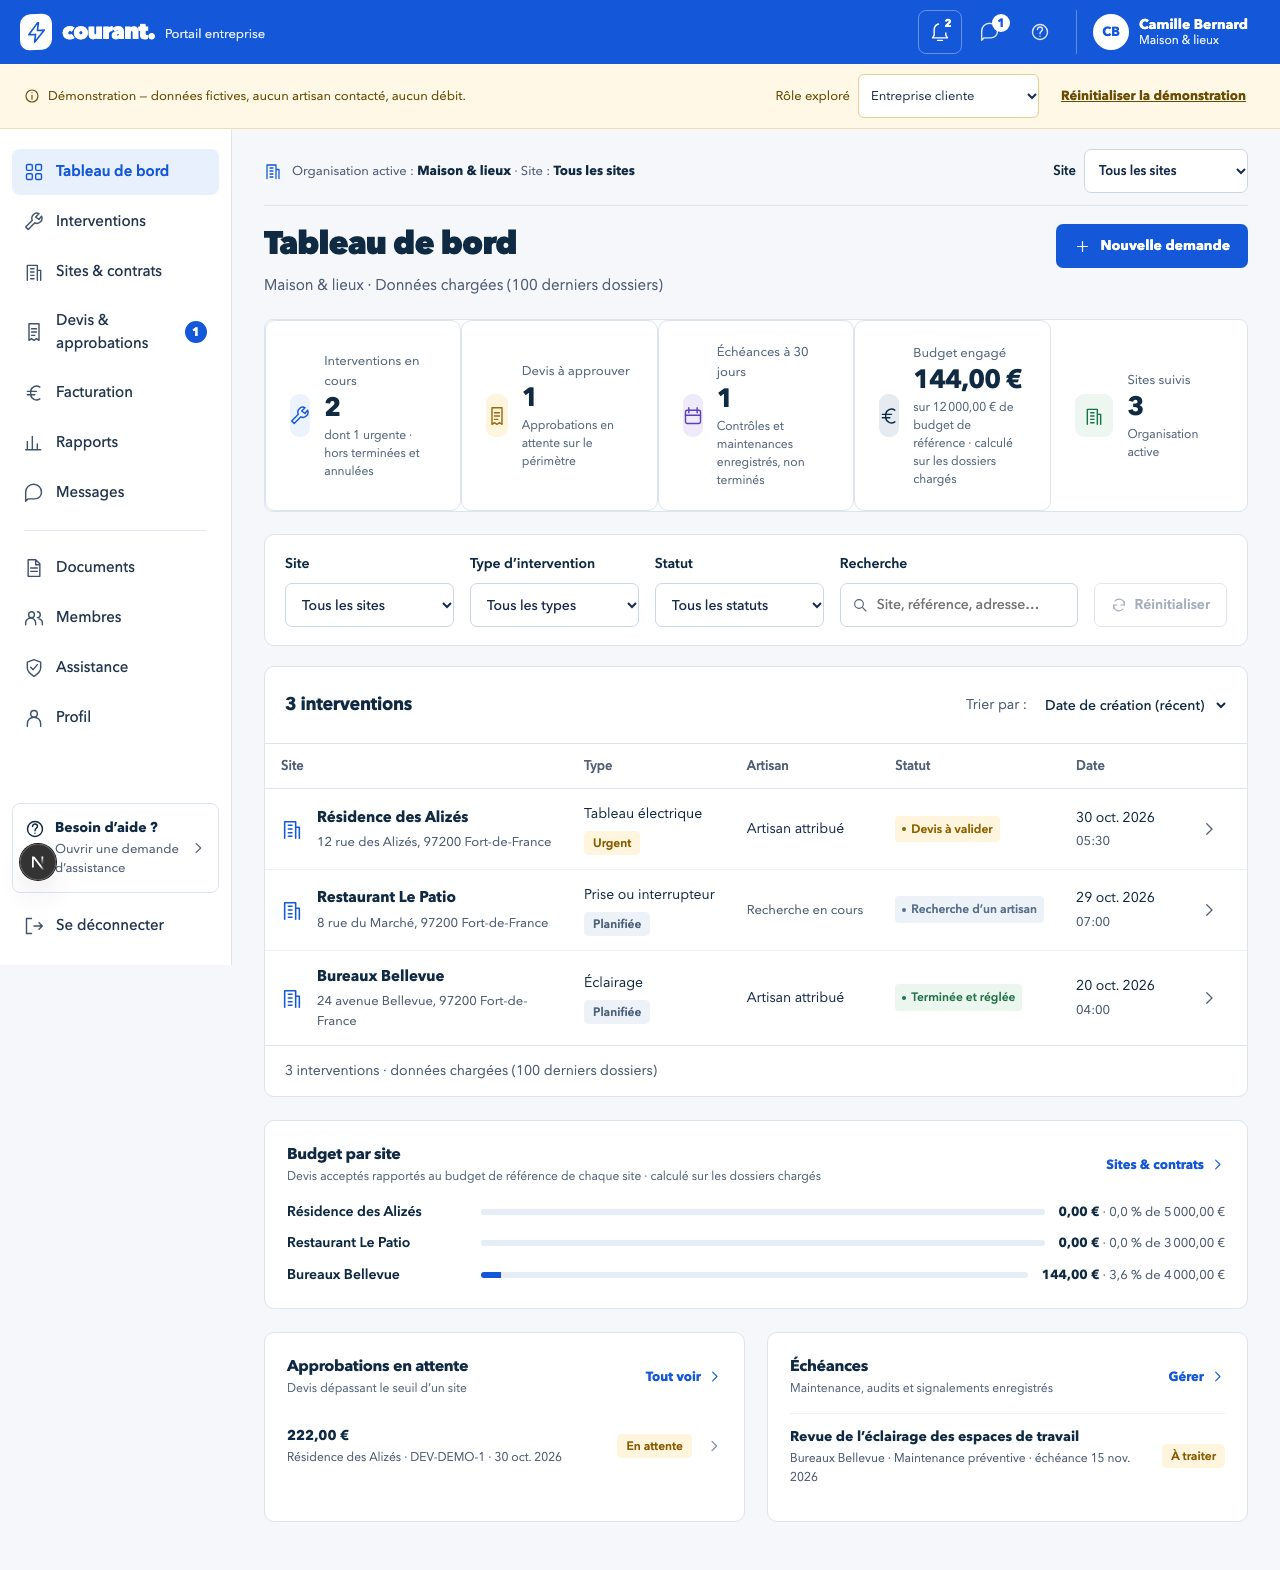
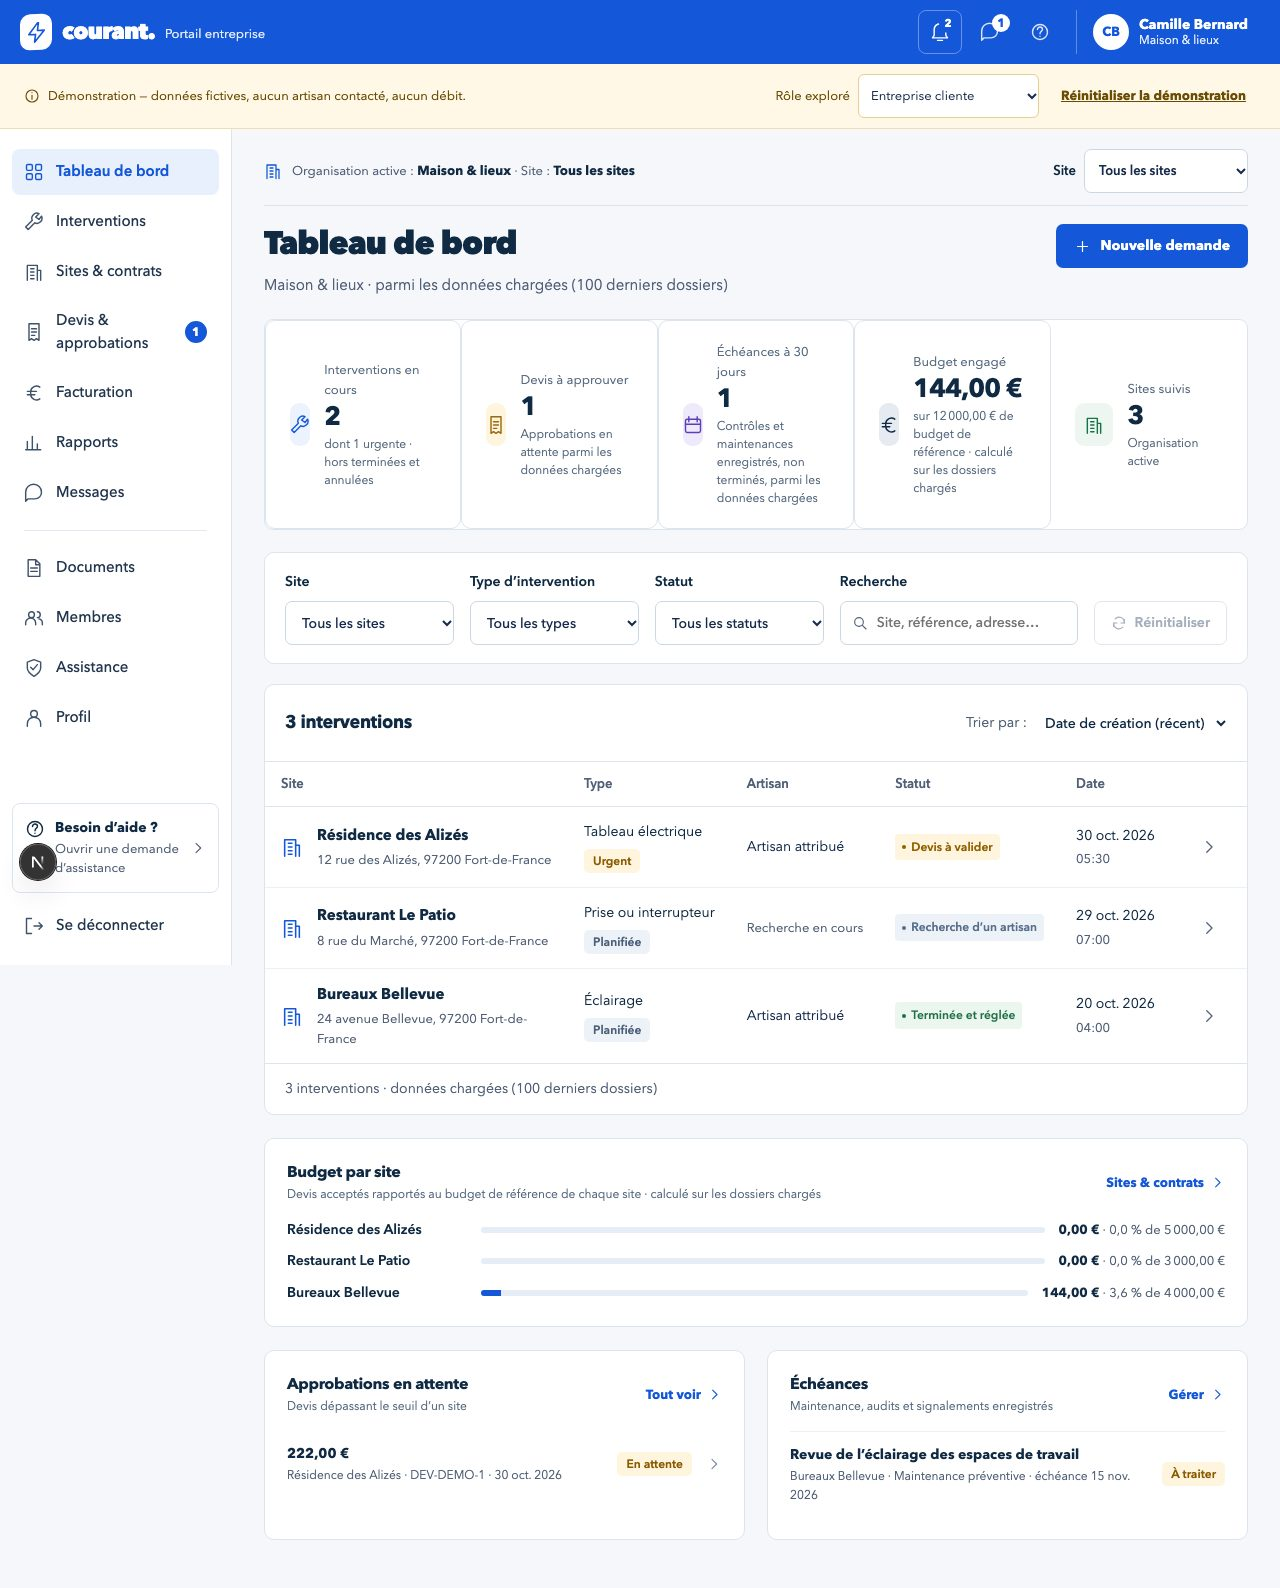
fix(enterprise): professional-dependent dashboard figures are state-aware — never 0 while unverified, honest subtitle (ENTERPRISE-FIGURES-001)

diff --git a/components/role/enterprise-space.tsx b/components/role/enterprise-space.tsx
@@ -70,7 +70,9 @@ import {
 import type { Session } from "../app/session-types";
 import { UploadQueuePanel } from "../app/upload-queue";
 import {
-  overviewFigures,
+  FIGURE_PLACEHOLDER,
+  dashboardFigures,
+  overviewSubtitle,
   siteBudgetBars,
   NO_FILTERS,
   budgetFigures,
@@ -1148,14 +1150,18 @@ function InterventionsTable({
 function OverviewView({ c }: { c: Ctx }) {
   const { scope } = c;
   const list = useInterventionList(c);
-  // V5-C05 : chiffres réels seulement (ouverts, dont urgentes, échéances à 30 jours) ; aucune consommation.
-  const figures = overviewFigures(scope, new Date().toISOString().slice(0, 10), (status) => OPEN_STATUSES.includes(status));
+  // V5-C05 : chiffres réels seulement (ouverts, dont urgentes). Les chiffres qui dépendent des données
+  // professionnelles (échéances, approbations, budget) ne sont affichés que lorsque le contrat est
+  // réellement chargé ; sinon leur état est dit (vérification / non vérifié), jamais un 0.
+  const professionalState = c.session.capabilities.professional;
+  const figures = dashboardFigures(professionalState, scope, new Date().toISOString().slice(0, 10), (status) => OPEN_STATUSES.includes(status));
   const open = figures.open;
-  const siteBars = siteBudgetBars(scope.sites, scope.interventions, scope.quotes);
+  const loaded = figures.professional === "loaded";
+  const placeholder = figures.professional === "loaded" ? "" : FIGURE_PLACEHOLDER[figures.professional];
+  const siteBars = loaded ? siteBudgetBars(scope.sites, scope.interventions, scope.quotes) : [];
   const pending = byDateDesc(
     scope.approvals.filter((a) => a.status === "pending").map((a) => ({ ...a, created_at: a.created_at || "" })),
   );
-  const committed = sum(scope.quotes.filter((q) => q.status === "accepted").map((q) => q.total_cents));
   const budget = sum(scope.sites.map((s) => s.budget_cents || 0));
   const deadlines = [...scope.compliance]
     .filter((r) => r.status !== "completed")
@@ -1165,7 +1171,7 @@ function OverviewView({ c }: { c: Ctx }) {
     <>
       <PageTitle
         title="Tableau de bord"
-        subtitle={`${c.organization?.name || "Organisation"} · ${LOADED_NOTE}`}
+        subtitle={overviewSubtitle(professionalState, c.organization?.name || "Organisation", LOADED_NOTE)}
         action={
           c.canCreateRequest ? (
             <button type="button" className="button primary" onClick={() => c.go("new")}>
@@ -1177,21 +1183,39 @@ function OverviewView({ c }: { c: Ctx }) {
           )
         }
       />
-      <div className={cx("stats-strip", styles.kpis)}>
+      <div className={cx("stats-strip", styles.kpis)} data-professional={figures.professional}>
         <Stat
           icon="wrench"
           label="Interventions en cours"
           value={open}
           note={figures.urgent > 0 ? `dont ${figures.urgent} urgente${figures.urgent > 1 ? "s" : ""} · hors terminées et annulées` : "Demandes ouvertes, hors terminées et annulées"}
         />
-        <Stat icon="receipt" tone="amber" label="Devis à approuver" value={pending.length} note="Approbations en attente sur le périmètre" />
-        <Stat icon="calendar" tone="violet" label="Échéances à 30 jours" value={figures.deadlines30} note="Contrôles et maintenances enregistrés, non terminés" />
+        <Stat
+          icon="receipt"
+          tone="amber"
+          label="Devis à approuver"
+          value={figures.approvalsPending ?? placeholder}
+          note={loaded ? "Approbations en attente parmi les données chargées" : "Données professionnelles non chiffrables"}
+        />
+        <Stat
+          icon="calendar"
+          tone="violet"
+          label="Échéances à 30 jours"
+          value={figures.deadlines30 ?? placeholder}
+          note={loaded ? "Contrôles et maintenances enregistrés, non terminés, parmi les données chargées" : "Données professionnelles non chiffrables"}
+        />
         <Stat
           icon="euro"
           tone="navy"
           label="Budget engagé"
-          value={money(committed)}
-          note={budget > 0 ? `sur ${money(budget)} de budget de référence · ${BASIS}` : `Aucun budget de référence · ${BASIS}`}
+          value={figures.committedCents === null ? placeholder : money(figures.committedCents)}
+          note={
+            !loaded
+              ? "Données professionnelles non chiffrables"
+              : budget > 0
+                ? `sur ${money(budget)} de budget de référence · ${BASIS}`
+                : `Aucun budget de référence · ${BASIS}`
+          }
         />
         <Stat icon="building" tone="green" label="Sites suivis" value={scope.sites.length} note={c.activeSite ? "Site filtré" : "Organisation active"} />
       </div>

diff --git a/tests/ui/enterprise-lists.test.ts b/tests/ui/enterprise-lists.test.ts
@@ -250,3 +250,40 @@ test("budget par site : engagé = devis acceptés du site, taux réel ou null sa
   assert.deepEqual(bars[0], { id: "s1", name: "Siège", committed: 150000, budget: 100000, ratio: 150, width: 100, over: true }, "taux réel non plafonné, barre plafonnée");
   assert.deepEqual(bars[1], { id: "s2", name: "Annexe", committed: 5000, budget: 0, ratio: null, width: 0, over: false }, "sans budget : aucun taux déduit");
 });
+
+import { FIGURE_PLACEHOLDER, dashboardFigures, figureState, overviewSubtitle } from "../../components/role/enterprise-lists";
+
+test("chiffres professionnels du tableau de bord : jamais un 0 tant que le contrat n’est pas réellement chargé", () => {
+  const isOpen = ((s: string) => !["paid", "cancelled"].includes(s)) as never;
+  const scope = { interventions: [{ status: "requested", urgency: "urgent" }], compliance: [], approvals: [], quotes: [] } as never;
+  for (const state of ["unknown", "unavailable", "missing"] as const) {
+    const f = dashboardFigures(state, scope, "2026-11-01", isOpen);
+    assert.equal(f.deadlines30, null, `${state}: échéances non chiffrées`);
+    assert.equal(f.approvalsPending, null, `${state}: approbations non chiffrées`);
+    assert.equal(f.committedCents, null, `${state}: budget non chiffré`);
+    assert.notEqual(typeof f.deadlines30, "number");
+    assert.equal(f.open, 1, "les dossiers de l’espace de travail restent chiffrés");
+    assert.equal(f.urgent, 1);
+    assert.equal(f.professional, state === "unknown" ? "checking" : "unverified");
+    assert.ok(FIGURE_PLACEHOLDER[f.professional as "checking" | "unverified"]);
+  }
+  const loaded = dashboardFigures("available", scope, "2026-11-01", isOpen);
+  assert.deepEqual([loaded.deadlines30, loaded.approvalsPending, loaded.committedCents, loaded.professional], [0, 0, 0, "loaded"], "chargé et vide : 0 qualifié");
+  const full = dashboardFigures(
+    "available",
+    { interventions: [], compliance: [{ status: "pending", due_on: "2026-11-15" }], approvals: [{ status: "pending" }, { status: "approved" }], quotes: [{ status: "accepted", total_cents: 500 }, { status: "sent", total_cents: 999 }] } as never,
+    "2026-11-01",
+    isOpen,
+  );
+  assert.deepEqual([full.deadlines30, full.approvalsPending, full.committedCents], [1, 1, 500]);
+  assert.equal(figureState("unknown"), "checking");
+  assert.equal(figureState("missing"), "unverified");
+});
+test("sous-titre du tableau de bord : « parmi les données chargées » seulement quand elles le sont", () => {
+  const note = "Données chargées (100 derniers dossiers)";
+  assert.equal(overviewSubtitle("available", "Maison & lieux", note), "Maison & lieux · parmi les données chargées (100 derniers dossiers)");
+  assert.match(overviewSubtitle("unknown", "Maison & lieux", note), /vérification des données professionnelles en cours/);
+  assert.doesNotMatch(overviewSubtitle("unknown", "Maison & lieux", note), /données chargées/i);
+  assert.match(overviewSubtitle("unavailable", "Maison & lieux", note), /non vérifiées/);
+  assert.doesNotMatch(overviewSubtitle("missing", "Maison & lieux", note), /chargées/);
+});

diff --git a/components/role/enterprise-lists.ts b/components/role/enterprise-lists.ts
@@ -197,3 +197,55 @@ export function siteBudgetBars(
     return { id: site.id, name: site.name, committed, budget, ...budgetFigures(committed, budget) };
   });
 }
+
+/** Lisibilité d’un chiffre dépendant des données professionnelles (même règle que `siteAlertSummary`). */
+export type FigureState = "checking" | "unverified" | "loaded";
+export const figureState = (state: ContractState): FigureState =>
+  state === "unknown" ? "checking" : state === "available" ? "loaded" : "unverified";
+
+/**
+ * Chiffres du tableau de bord V5-C05 dépendant du contrat professionnel : échéances à 30 jours,
+ * approbations en attente et budget engagé ne sont des nombres que lorsque les données sont
+ * réellement chargées ; sinon `null` (vérification en cours ou non vérifié), jamais un 0.
+ * Les interventions ouvertes et les urgences viennent de l’espace de travail et restent chiffrées.
+ */
+export function dashboardFigures(
+  state: ContractState,
+  scope: {
+    interventions: Pick<Intervention, "status" | "urgency">[];
+    compliance: Pick<ComplianceRecord, "status" | "due_on">[];
+    approvals: Pick<Approval, "status">[];
+    quotes: Pick<Quote, "status" | "total_cents">[];
+  },
+  today: string,
+  isOpen: (status: Intervention["status"]) => boolean,
+) {
+  const base = overviewFigures(scope, today, isOpen);
+  const professional = figureState(state);
+  const loaded = professional === "loaded";
+  return {
+    open: base.open,
+    urgent: base.urgent,
+    professional,
+    deadlines30: loaded ? base.deadlines30 : null,
+    approvalsPending: loaded ? scope.approvals.filter((a) => a.status === "pending").length : null,
+    committedCents: loaded ? scope.quotes.filter((q) => q.status === "accepted").reduce((sum, q) => sum + q.total_cents, 0) : null,
+  };
+}
+
+/** Libellé d’un chiffre non chiffrable : l’état est dit, jamais remplacé par une valeur. */
+export const FIGURE_PLACEHOLDER: Record<Exclude<FigureState, "loaded">, string> = {
+  checking: "Vérification…",
+  unverified: "Non vérifié",
+};
+
+/**
+ * Sous-titre du tableau de bord : « parmi les données chargées » seulement quand les données
+ * professionnelles le sont réellement ; sinon l’état de vérification est annoncé.
+ */
+export function overviewSubtitle(state: ContractState, organizationName: string, loadedNote: string): string {
+  const figure = figureState(state);
+  if (figure === "loaded") return `${organizationName} · parmi les ${loadedNote.charAt(0).toLowerCase()}${loadedNote.slice(1)}`;
+  if (figure === "checking") return `${organizationName} · vérification des données professionnelles en cours`;
+  return `${organizationName} · données professionnelles non vérifiées (service indisponible)`;
+}
